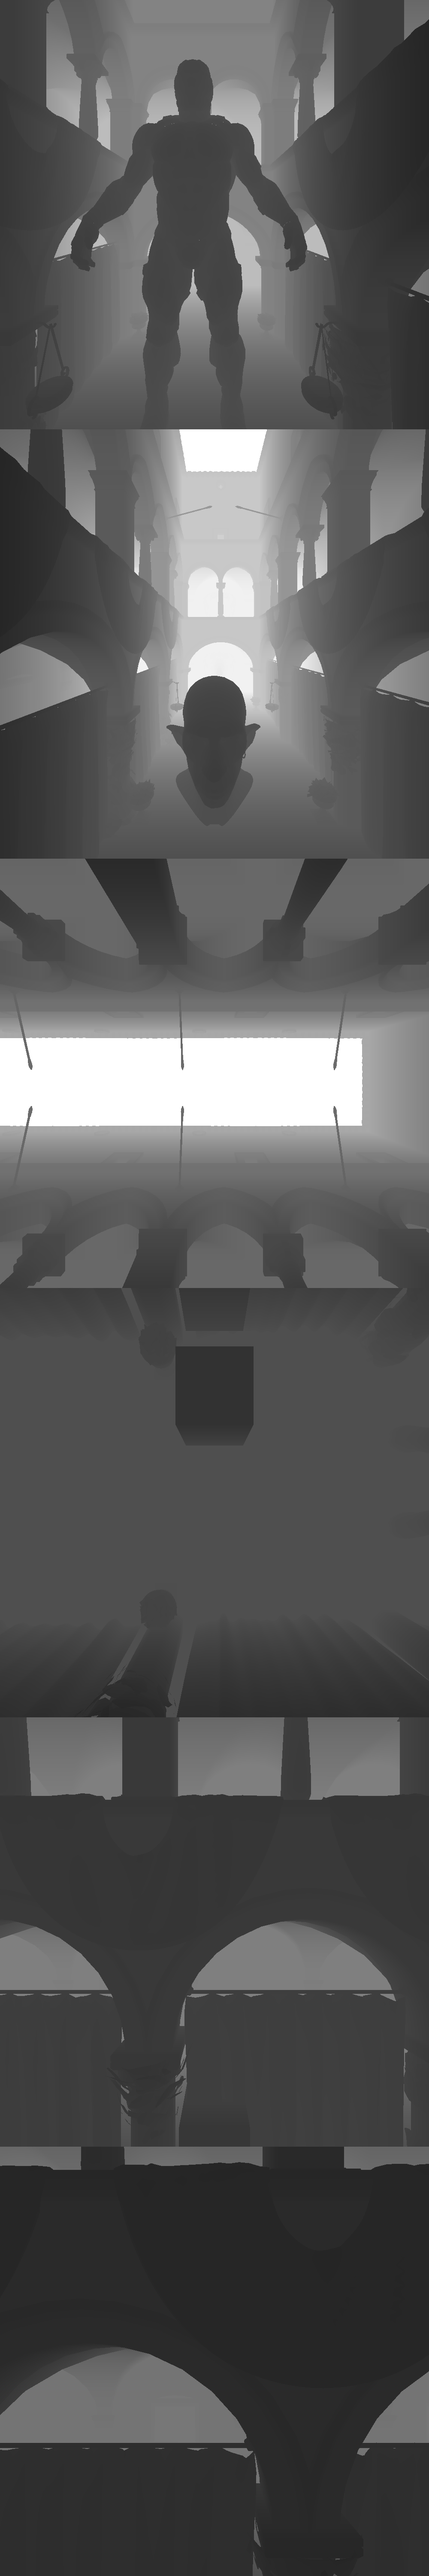
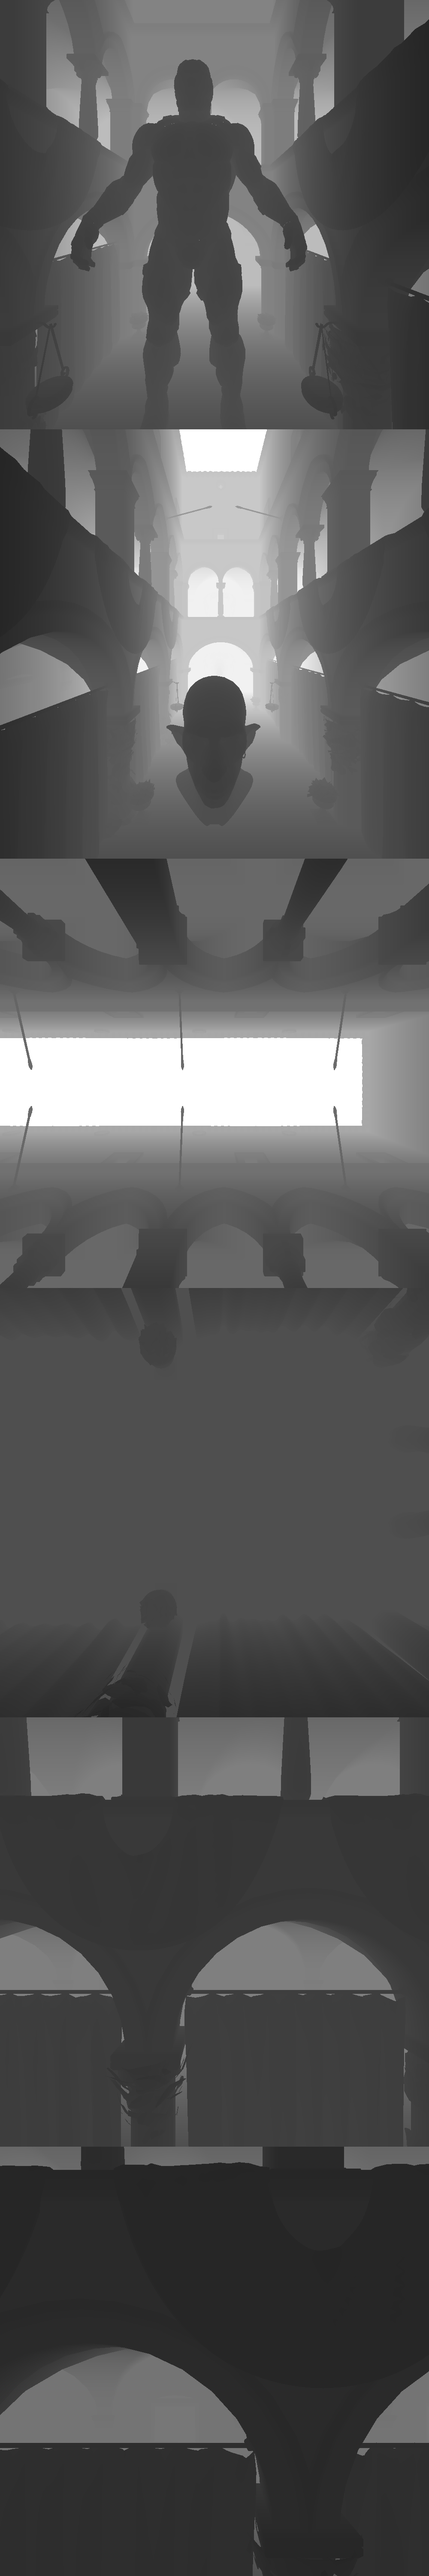
Cleaning scene

Changed region(s): [[0.403, 0.4987, 0.589, 0.561], [0.403, 0.8103, 0.434, 0.8415]]

diff --git a/DirectXLearning/App.cpp b/DirectXLearning/App.cpp
@@ -22,33 +22,26 @@ App::App(const std::string& commandLine)
 
 	TestDynamicMeshLoading(wnd.Gfx());
 
-	tc1.SetPos({ 10.0f, 5.0f, 6.0f });
-	tc2.SetPos({ 10.0f, 5.0f, 14.0f });
-	//tp.SetRotation(PI / 2.0f, 0.0f, 0.0f);
-	//wall.SetRootTransform(DirectX::XMMatrixTranslation(-12.0f, 0.0f, 0.0f));
-	//bluePlane.SetPos(cam.GetPos());
-	//redPlane.SetPos(cam.GetPos());
-
 	nano.SetRootTransform(
 		dx::XMMatrixRotationY(PI / 2.0f) *
-	dx::XMMatrixTranslation(27.0f, -0.56f, 1.7f)
+		dx::XMMatrixTranslation(27.0f, -0.56f, 1.7f)
 	);
 	goblin.SetRootTransform(
 		dx::XMMatrixRotationY(-PI / 2.0f) *
 		dx::XMMatrixTranslation(-8.0f, 10.0f, 0.0f)
 	);
 
-	tc1.LinkTechniques(rg);
-	tc2.LinkTechniques(rg);
-	//tp.LinkTechniques(rg);
+	models.push_back(&nano);
+	models.push_back(&goblin);
+	models.push_back(&sponza);
+
 	light.LinkTechniques(rg);
-	sponza.LinkTechniques(rg);
-	nano.LinkTechniques(rg);
-	goblin.LinkTechniques(rg);
 	cameras.LinkTechniques(rg);
+	for(auto m : models) {
+		m->LinkTechniques(rg);
+	}
 
 	rg.BindShadowCamera(*light.ShareCamera());
-	//TestDynamicConstant();
 }
 
 App::~App()
@@ -75,20 +68,11 @@ void App::DoFrame(float dt) {
 	rg.BindMainCamera(cameras.GetActiveCamera());
 
 	light.Submit(Chan::main);
-	tc1.Submit(Chan::main);
-	tc2.Submit(Chan::main);
-	//tp.Submit(Chan::main);
-	sponza.Submit(Chan::main);
-	goblin.Submit(Chan::main);
-	nano.Submit(Chan::main);
 	cameras.Submit(Chan::main);
-
-	tc1.Submit(Chan::shadow);
-	tc2.Submit(Chan::shadow);
-	//tp.Submit(Chan::shadow);
-	sponza.Submit(Chan::shadow);
-	goblin.Submit(Chan::shadow);
-	nano.Submit(Chan::shadow);
+	for (auto m : models) {
+		m->Submit(Chan::main);
+		m->Submit(Chan::shadow);
+	}
 
 	rg.Execute(wnd.Gfx());
 
@@ -96,10 +80,6 @@ void App::DoFrame(float dt) {
 		rg.DumpShadowMap(wnd.Gfx(), "shadowSingle.png");
 		savingDepth = false;
 	}
-
-	//wall.Draw(wnd.Gfx());
-	//bluePlane.Draw(wnd.Gfx());
-	//redPlane.Draw(wnd.Gfx());
 
 	static MP sponzaProbe{ "Sponza" };
 	static MP goblinProbe{ "Goblin" };
@@ -112,15 +92,8 @@ void App::DoFrame(float dt) {
 
 	cameras.SpawnWindow(wnd.Gfx());
 	light.SpawnControlWindow("Light 1");
-	tc1.SpawnControlWindow(wnd.Gfx(), "Cube 1");
-	tc2.SpawnControlWindow(wnd.Gfx(), "Cube 2");
-	//tp.SpawnControlWindow(wnd.Gfx(), "Plane");
 	rg.RenderWindows(wnd.Gfx());
 	ShowImguiDemoWindow();
-
-	//wall.ShowWindow(wnd.Gfx(), "Wall");
-	//bluePlane.SpawnControlWindow(wnd.Gfx(), "Blue Plane");
-	//redPlane.SpawnControlWindow(wnd.Gfx(), "Red Plane");
 
 	wnd.Gfx().EndFrame();
 	rg.Reset();

diff --git a/DirectXLearning/App.h b/DirectXLearning/App.h
@@ -32,7 +32,7 @@ private:
 
 private:
 	std::string commandLine;
-	bool showDemoWindow = false;
+	bool showDemoWindow = true;
 	ImguiManager imguiManager;
 	Window wnd;
 	ScriptCommander scriptCommander;
@@ -41,6 +41,8 @@ private:
 	CameraContainer cameras;
 	Rgph::BlurOutlineRenderGraph rg{ wnd.Gfx() };
 
+	std::vector<Model*> models;
+
 	PointLight light;
 	Model goblin{ wnd.Gfx(), "src\\models\\gobber\\GoblinX.obj" , 4.0f };
 	Model nano{ wnd.Gfx(), "src\\models\\nano_textured\\nanosuit.obj", 2.0f };
@@ -48,8 +50,8 @@ private:
 	//Model wall{ wnd.Gfx(), "src\\models\\brick_wall\\brick_wall.obj", 2.0f };
 	//TestPlane bluePlane{ wnd.Gfx(), 6.0 , {0.3f, 0.3f, 1.0f, 0.5f}};
 	//TestPlane redPlane{ wnd.Gfx(), 6.0 , {1.0f, 0.3f, 0.3f, 0.5f}};
-	TestCube tc1{ wnd.Gfx(), 4.0f };
-	TestCube tc2{ wnd.Gfx(), 4.0f };
+	//TestCube tc1{ wnd.Gfx(), 4.0f };
+	//TestCube tc2{ wnd.Gfx(), 4.0f };
 	//TestPlane tp{ wnd.Gfx(), 50.0f, {0.8f, 0.8f, 0.8f, 1.0f}};
 
 	bool savingDepth = true;
